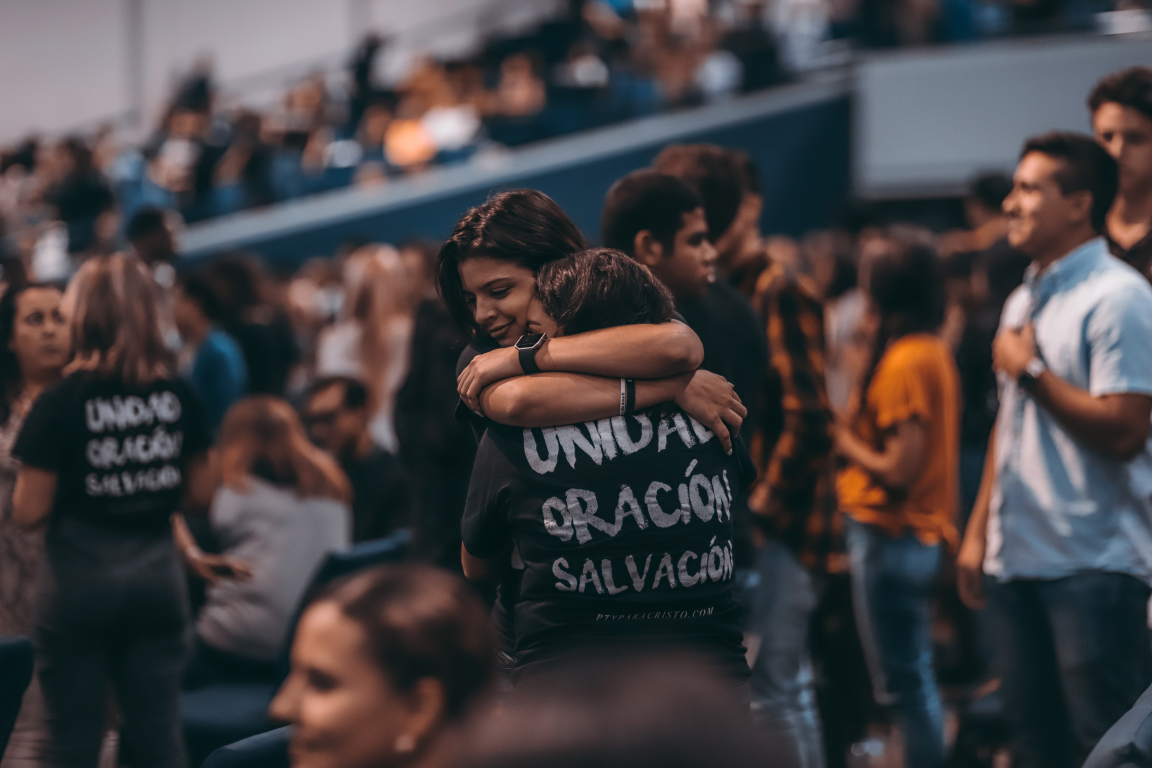
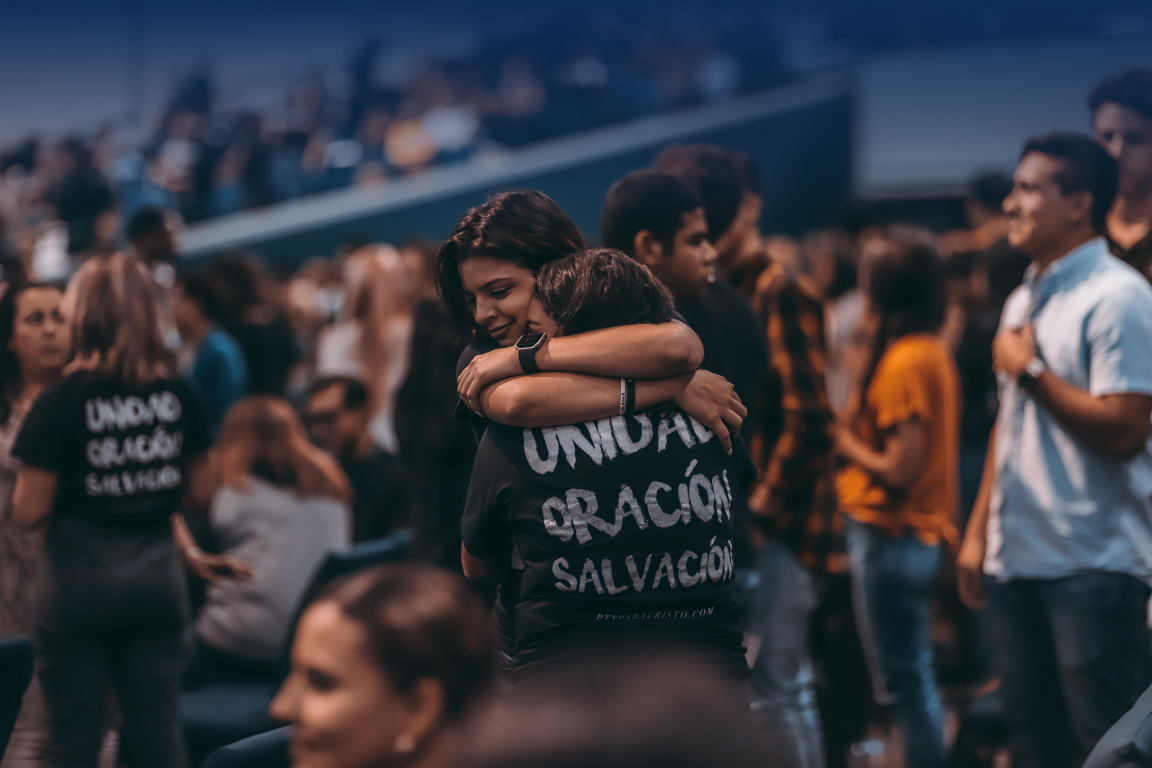
first pass of problem page

Changed region(s): [[0.0, 0.0, 1.0, 0.2812]]

diff --git a/pages/our-story/problem.tsx b/pages/our-story/problem.tsx
@@ -1,4 +1,4 @@
-import React from "react";
+import React, { useEffect, useRef, useState } from "react";
 import BaseTemplate from "components/BaseTemplate";
 import Head from "next/head";
 import PaddedLayout from "components/Layout/PaddedLayout";
@@ -9,12 +9,23 @@ import BasicCard from "components/Cards/BasicCard";
 import OurStoryBackground from "assets/Backgrounds/OurStoryBackground";
 import ValuePropCard from "components/Cards/ValuePropCard";
 import { PROBLEM_VALUE_PROP } from "utils/constants";
+import BackgroundImage from "components/BackgroundImage/BackgroundImage";
 
 interface Props {}
 
 const ProblemPage = (props: Props) => {
+  const node = useRef<HTMLDivElement>(null);
+  const [minHeight, setMinHeight] = useState(0);
+
+  useEffect(() => {
+    if (!node.current) return;
+
+    console.log(node.current.clientHeight);
+    setMinHeight(node.current.clientHeight);
+  }, [node]);
+
   return (
-    <BaseTemplate>
+    <BaseTemplate className="bg-blue-100 overflow-auto" style={{ minHeight }}>
       <Head>
         <title>
           Ameelio: Understanding the problem of prison telecommunicationn
@@ -25,22 +36,40 @@ const ProblemPage = (props: Props) => {
           key="title"
         />
       </Head>
-      <OurStoryBackground className="absolute top-1/4 object-cover z-0" />
-      <div>
+
+      <div className="absolute grid top-1/4 z-0" ref={node}>
+        <BackgroundImage
+          src={"/static/images/Problem/GraduationHug.png"}
+          alt="Graduate hugging loved one"
+        />
+        <BackgroundImage
+          src={"/static/images/Problem/PersonHoldingPicture.png"}
+          alt="Graduate hugging loved one"
+        />
+        <BackgroundImage
+          src={"/static/images/Problem/Hugs.png"}
+          alt="Graduate hugging loved one"
+          classname="problem-image-gradient"
+        />
+      </div>
+
+      <div className="grid md:space-y-48">
         <PaddedLayout>
-          <BasicCard className="grid space-y-8 items-center text-center">
-            <H2>Why prison communication and education?</H2>
-            <span>
-              For incarcerated people and their families, access to free
-              communication and education can change everything.
-            </span>
+          <BasicCard>
+            <div className="grid space-y-4 items-center text-center md:p-8">
+              <H2>Why prison communication and education?</H2>
+              <span>
+                For incarcerated people and their families, access to free
+                communication and education can change everything.
+              </span>
+            </div>
           </BasicCard>
         </PaddedLayout>
 
         <PaddedLayout>
-          <div className="grid md:grid-cols-4  md:gap-x-8">
+          <div className="justify-center gap-y-8 md:grid  md:grid-cols-4  md:gap-x-8">
             <BasicCard>
-              <p className="text-lg font-bold text-center">
+              <p className="text-2xl font-bold text-center">
                 113 million people in America have had an immediate family
                 member incarcerated.
               </p>
@@ -72,9 +101,9 @@ const ProblemPage = (props: Props) => {
           </div>
         </PaddedLayout>
 
-        <PaddedLayout className="grid md:grid-cols-2" marginRight="0%">
-          <BasicCard>
-            <div className="grid space-y-8">
+        <PaddedLayout className="grid md:grid-cols-2">
+          <BasicCard className="rounded-tr-none rounded-br-none">
+            <div className="grid space-y-8 md:p-8">
               <H2>
                 Every $1 invested in providing prison education and
                 communication can yield $4-$5 in economic returns.
@@ -91,6 +120,7 @@ const ProblemPage = (props: Props) => {
             width="576"
             height="458"
             alt="Incarcerated graduates"
+            className="object-cover"
           />
         </PaddedLayout>
       </div>

diff --git a/components/BackgroundImage/BackgroundImage.tsx b/components/BackgroundImage/BackgroundImage.tsx
@@ -1,0 +1,60 @@
+import React from "react";
+import { useEffect, useState } from "react";
+import Image from "next/image";
+
+interface Props {
+  src: string;
+  alt: string;
+  classname?: string;
+}
+
+function getWindowDimensions() {
+  const { innerWidth: width, innerHeight: height } = window;
+  return {
+    width,
+    height,
+  };
+}
+const BackgroundImage = ({ src, classname, alt }: Props) => {
+  const [width, setWidth] = useState<number>();
+  const [height, setheight] = useState<number>();
+
+  useEffect(() => {
+    const { width, height } = getWindowDimensions();
+
+    setWidth(width);
+
+    setheight(height);
+  }, []);
+
+  useEffect(() => {
+    function handleResize() {
+      const { width, height } = getWindowDimensions();
+
+      setWidth(width);
+
+      setheight(height);
+    }
+
+    window.addEventListener("resize", handleResize);
+    return () => window.removeEventListener("resize", handleResize);
+  }, []);
+
+  if (width && height) {
+    return (
+    //   <div className={`absolute z-0 ${classname}`}>
+        <Image
+          src={src}
+          alt={alt}
+          width={width}
+          height={height}
+          className="object-cover"
+        />
+    //   </div>
+    );
+  }
+
+  return <div></div>;
+};
+
+export default BackgroundImage;

diff --git a/components/BaseTemplate/BaseTemplate.tsx b/components/BaseTemplate/BaseTemplate.tsx
@@ -1,4 +1,4 @@
-import React, { ReactNode, useEffect } from "react";
+import React, { CSSProperties, ReactNode, useEffect } from "react";
 import { Layout } from "antd";
 import Footer from "components/Footer";
 import Link from "next/link";
@@ -11,9 +11,10 @@ import { hotjar } from "react-hotjar";
 interface Props {
   children: ReactNode | ReactNode[];
   className?: string;
+  style?: CSSProperties;
 }
 
-const BaseTemplate = ({ children, className }: Props) => {
+const BaseTemplate = ({ children, className, style }: Props) => {
   useEffect(() => {
     const hjid = process.env.NEXT_PUBLIC_HJID;
     const hjsv = process.env.NEXT_PUBLIC_HJSV;
@@ -22,7 +23,10 @@ const BaseTemplate = ({ children, className }: Props) => {
   }, []);
 
   return (
-    <Layout className={`max-w-screen overflow-hidden ${className}`}>
+    <Layout
+      className={`max-w-screen overflow-hidden ${className}`}
+      style={style}
+    >
       <Head>
         <link
           rel="icon"

diff --git a/components/Product/ValuePropsItem/ValuePropsItem.tsx b/components/Product/ValuePropsItem/ValuePropsItem.tsx
@@ -1,17 +1,20 @@
 import React from "react";
 import { TValuePropItem } from "types";
-import Link from 'components/Link';
+import Link from "components/Link";
 
 interface Props extends TValuePropItem {}
 
-const ValuePropsItem = ({title, cta, body, icon}: Props) => {
+const ValuePropsItem = ({ title, cta, body, icon }: Props) => {
   return (
-    <div className="flex space-x-4" key={title}>
+    <div
+      className="flex flex-col items-center space-y-4 md:items-start  md:space-y-0 md:flex-row md:space-x-4"
+      key={title}
+    >
       <div>{icon}</div>
       <div className="flex flex-col space-y-2">
         <span className="font-bold">{title}</span>
         <p>{body}</p>
-        {cta && <Link text={cta.text} href={cta.link} external/>}
+        {cta && <Link text={cta.text} href={cta.link} external />}
       </div>
     </div>
   );

diff --git a/styles/globals.css b/styles/globals.css
@@ -1,9 +1,20 @@
 @import "~antd/dist/antd.css";
 @import url("https://fonts.googleapis.com/css2?family=Inter:wght@100;200;300;400;500;600;700;800&display=swap");
 
-
 body {
   background-color: #ebfafb !important;
   font-family: "Inter", sans-serif !important;
+  font-size: 16px;
 }
 
+.ant-card {
+  font-size: 16px;
+}
+
+.problem-gradient {
+  background: linear-gradient(180deg, #3b342c 0%, #0f2d57 100%);
+}
+
+.problem-image-gradient {
+  background: linear-gradient(180deg, #0c2c5a 0%, rgba(12, 44, 90, 0) 31.12%);
+}

diff --git a/components/Cards/BasicCard/BasicCard.tsx b/components/Cards/BasicCard/BasicCard.tsx
@@ -5,7 +5,7 @@ interface Props extends CardProps {
 
 const BasicCard = (props: Props) => {
     return (
-        <Card {...props} className={`${props.className} rounded`} /> 
+        <Card {...props} className={`rounded ${props.className}`} /> 
     )
 }
 
